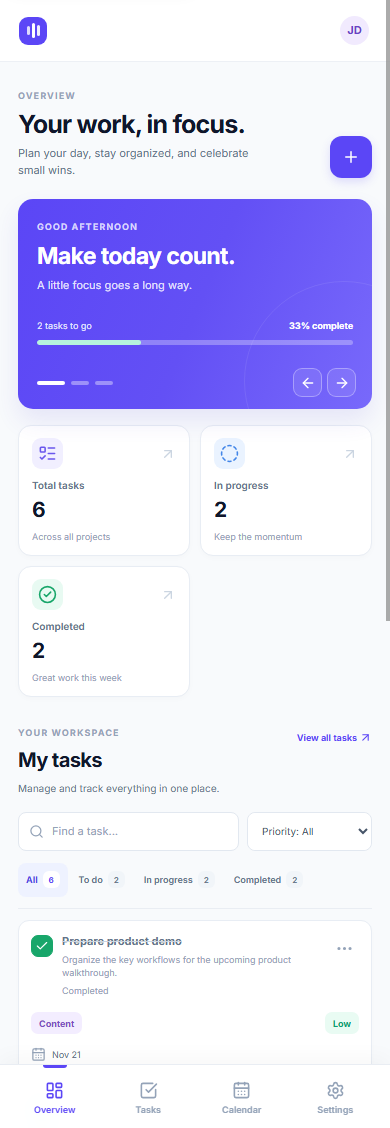
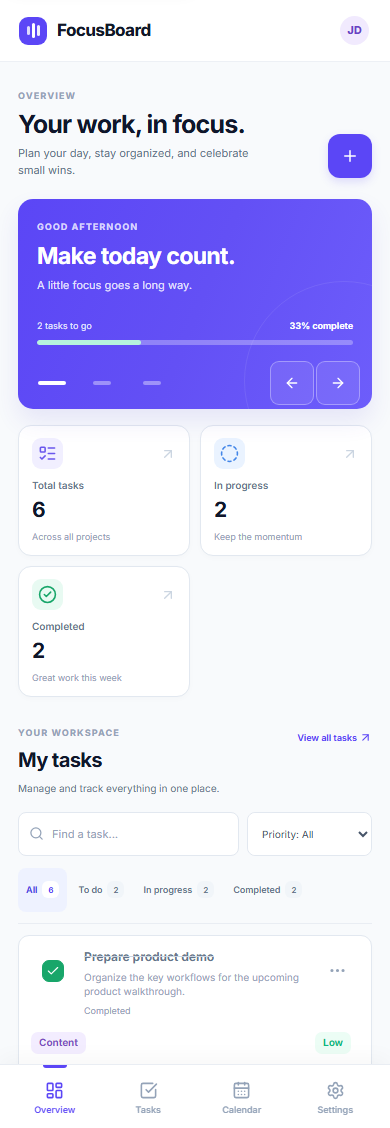
Align dashboard visuals with Figma reference

diff --git a/src/App.css b/src/App.css
@@ -50,7 +50,7 @@ button:focus-visible, input:focus-visible, textarea:focus-visible, select:focus-
 .mobile-header { display: none; }
 .mobile-navigation { display: none; }
 
-.dashboard { width: min(100%, 1230px); margin: 0 auto; padding: 40px 46px 32px; }
+.dashboard { width: min(100%, 1230px); margin: 0 auto; padding: 40px 47px 32px; }
 .hero { display: flex; align-items: center; justify-content: space-between; gap: 24px; margin-bottom: 28px; }
 .eyebrow { margin: 0 0 9px; color: #94a3b8; font-size: 10px; font-weight: 750; letter-spacing: 1.15px; }
 .hero h1 { margin: 0; color: #0f172a; font-size: clamp(26px, 2.45vw, 34px); font-weight: 700; letter-spacing: -1.25px; line-height: 1.15; }
@@ -62,23 +62,23 @@ button:focus-visible, input:focus-visible, textarea:focus-visible, select:focus-
 .secondary-button:hover { background: #f8fafc; }
 .new-task-button { min-width: 124px; }
 
-.focus-banner { position: relative; display: flex; min-height: 216px; align-items: center; justify-content: space-between; overflow: hidden; border-radius: 17px; padding: 26px 30px 44px; background: linear-gradient(112deg, #5b46f6 0%, #6350f5 51%, #7869fb 100%); color: #fff; box-shadow: 0 12px 25px #5141d51c; isolation: isolate; }
+.focus-banner { position: relative; display: flex; min-height: 152px; align-items: center; justify-content: space-between; overflow: hidden; border-radius: 17px; padding: 18px 30px 38px; background: linear-gradient(112deg, #5b46f6 0%, #6350f5 51%, #6d5dfb 100%); color: #fff; box-shadow: 0 12px 25px #5141d51c; isolation: isolate; }
 .focus-banner-content { position: relative; z-index: 1; width: min(63%, 600px); }
 .focus-meta { display: flex; align-items: center; gap: 13px; color: #ddd9ff; font-size: 9px; font-weight: 700; letter-spacing: 1.1px; }
 .focus-meta b { border: 1px solid #ffffff3d; border-radius: 20px; padding: 5px 8px; color: #fff; font-size: 9px; letter-spacing: .45px; }
-.focus-banner h2 { margin: 16px 0 7px; font-size: clamp(23px, 2.3vw, 30px); font-weight: 700; letter-spacing: -.9px; line-height: 1.2; }
+.focus-banner h2 { margin: 10px 0 6px; font-size: clamp(22px, 2.1vw, 28px); font-weight: 700; letter-spacing: -.9px; line-height: 1.2; }
 .focus-subtitle { margin: 0; color: #e4e0ff; font-size: 13px; }
 .mobile-greeting, .mobile-focus-progress { display: none; }
-.focus-preview { position: relative; z-index: 1; width: 250px; margin: 0 22px 0 24px; border: 1px solid #ffffff55; border-radius: 12px; padding: 16px 17px 15px; background: #ffffff20; box-shadow: 0 10px 30px #32279c2b; backdrop-filter: blur(7px); }
-.preview-heading { display: flex; align-items: center; justify-content: space-between; margin-bottom: 14px; color: #e6e3ff; font-size: 9px; font-weight: 700; letter-spacing: .9px; }
+.focus-preview { position: relative; z-index: 1; width: 238px; margin: 0 74px 0 24px; border: 1px solid #ffffff55; border-radius: 12px; padding: 12px 14px 11px; background: #ffffff20; box-shadow: 0 10px 30px #32279c2b; backdrop-filter: blur(7px); }
+.preview-heading { display: flex; align-items: center; justify-content: space-between; margin-bottom: 8px; color: #e6e3ff; font-size: 9px; font-weight: 700; letter-spacing: .9px; }
 .preview-heading span:first-child { display: flex; align-items: center; gap: 6px; }
 .preview-dot { width: 6px; height: 6px; border-radius: 50%; background: #9ff1d0; box-shadow: 0 0 0 3px #9ff1d033; }
 .focus-preview > strong { display: block; overflow: hidden; color: #fff; font-size: 13px; font-weight: 600; text-overflow: ellipsis; white-space: nowrap; }
-.preview-progress { display: flex; align-items: center; gap: 8px; margin-top: 15px; }
+.preview-progress { display: flex; align-items: center; gap: 8px; margin-top: 10px; }
 .preview-progress > span, .progress-track { display: block; height: 5px; flex: 1; overflow: hidden; border-radius: 10px; background: #ffffff4c; }
 .preview-progress i, .progress-track span { display: block; height: 100%; border-radius: inherit; background: #b6f3dd; }
 .preview-progress b { color: #fff; font-size: 9px; }
-.focus-banner-bottom { position: absolute; z-index: 1; right: 24px; bottom: 17px; left: 30px; display: flex; align-items: center; justify-content: space-between; }
+.focus-banner-bottom { position: absolute; z-index: 1; right: 24px; bottom: 12px; left: 30px; display: flex; align-items: center; justify-content: space-between; }
 .focus-indicators { display: flex; align-items: center; gap: 6px; }
 .focus-indicators button { width: 21px; height: 4px; border: 0; border-radius: 5px; padding: 0; background: #ffffff62; }
 .focus-indicators button.active { width: 32px; background: #fff; }
@@ -90,7 +90,7 @@ button:focus-visible, input:focus-visible, textarea:focus-visible, select:focus-
 .focus-decoration-two { top: 20px; right: 12%; display: grid; width: 34px; height: 34px; place-items: center; border-radius: 12px; background: #ffffff1e; color: #fff; transform: rotate(12deg); }
 
 .stats-grid { display: grid; grid-template-columns: repeat(3, minmax(0, 1fr)); gap: 16px; margin: 23px 0 36px; }
-.stat-card { min-height: 139px; border: 1px solid #e8edf4; border-radius: 13px; padding: 15px 18px 14px; background: #fff; box-shadow: 0 2px 6px #0f172a05; }
+.stat-card { min-height: 124px; border: 1px solid var(--line); border-radius: 13px; padding: 14px 18px 12px; background: #fff; box-shadow: 0 2px 6px #0f172a05; }
 .stat-top { display: flex; align-items: center; justify-content: space-between; }
 .stat-icon { display: inline-flex; width: 34px; height: 34px; align-items: center; justify-content: center; border-radius: 10px; }
 .stat-card.purple .stat-icon { background: #f1efff; color: #6a57ed; }
@@ -123,7 +123,7 @@ button:focus-visible, input:focus-visible, textarea:focus-visible, select:focus-
 .priority-field select { height: 100%; border: 0; border-radius: inherit; padding: 0 28px 0 10px; outline: none; background: #fff; color: #475569; font-size: 11px; }
 .task-list { padding-top: 4px; }
 .task-list-labels { display: grid; grid-template-columns: minmax(220px, 1fr) 125px 100px 110px 44px; align-items: center; gap: 12px; min-height: 40px; padding: 0 12px; color: #94a3b8; font-size: 9px; font-weight: 700; letter-spacing: .6px; text-transform: uppercase; }
-.task-row { position: relative; display: grid; grid-template-columns: minmax(220px, 1fr) 125px 100px 110px 44px; align-items: center; gap: 12px; min-height: 75px; border: 1px solid #e8edf4; border-radius: 11px; margin-bottom: 9px; padding: 11px 12px; background: #fff; box-shadow: 0 2px 5px #0f172a04; transition: border-color .16s ease, box-shadow .16s ease; }
+.task-row { position: relative; display: grid; grid-template-columns: minmax(220px, 1fr) 125px 100px 110px 44px; align-items: center; gap: 12px; min-height: 75px; border: 1px solid var(--line); border-radius: 11px; margin-bottom: 9px; padding: 11px 12px; background: #fff; box-shadow: 0 2px 5px #0f172a04; transition: border-color .16s ease, box-shadow .16s ease; }
 .task-row:hover { border-color: #d7dded; box-shadow: 0 5px 14px #0f172a0b; }
 .task-main-cell { display: flex; min-width: 0; align-items: flex-start; gap: 11px; }
 .task-status-button { position: relative; display: inline-flex; flex: 0 0 44px; width: 44px; height: 44px; align-items: center; justify-content: center; border: 0; border-radius: 8px; background: transparent; color: #fff; }
@@ -132,17 +132,17 @@ button:focus-visible, input:focus-visible, textarea:focus-visible, select:focus-
 .task-status-button.is-completed::before { border-color: #18a66a; background: #18a66a; }
 .task-status-button svg { position: relative; z-index: 1; }
 .task-copy { min-width: 0; }
-.task-copy strong { display: block; overflow: hidden; color: #1e293b; font-size: 12px; font-weight: 650; text-overflow: ellipsis; white-space: nowrap; }
-.task-copy p { overflow: hidden; margin: 5px 0 0; color: #94a3b8; font-size: 10px; line-height: 1.45; text-overflow: ellipsis; white-space: nowrap; }
+.task-copy strong { display: block; overflow: hidden; color: #1e293b; font-size: 13px; font-weight: 650; text-overflow: ellipsis; white-space: nowrap; }
+.task-copy p { overflow: hidden; margin: 5px 0 0; color: #94a3b8; font-size: 11px; line-height: 1.45; text-overflow: ellipsis; white-space: nowrap; }
 .task-completed .task-copy strong { color: #64748b; text-decoration: line-through; text-decoration-color: #cbd5e1; }
 .category-badge, .priority-badge { display: inline-flex; min-height: 23px; align-items: center; border-radius: 7px; padding: 0 8px; font-size: 9px; font-weight: 650; white-space: nowrap; }
-.category-design { background: #f0efff; color: #6253d7; }
+.category-design { background: #eef2ff; color: #6366f1; }
 .category-development { background: #eaf2ff; color: #3974c6; }
 .category-content { background: #f3edff; color: #7a4ec2; }
 .category-product, .category-marketing, .category-research, .category-quality, .category-engineering { background: #f1f5f9; color: #64748b; }
-.priority-high { background: #fff5dc; color: #d97706; }
-.priority-medium { background: #e4f8ef; color: #0c9a62; }
-.priority-low { background: #e9fbf3; color: #0f9f70; }
+.priority-high { background: #fef3c7; color: #d97706; }
+.priority-medium { background: #d1fae5; color: #059669; }
+.priority-low { background: #ecfdf5; color: #10b981; }
 .task-due-cell { display: inline-flex; align-items: center; gap: 6px; color: #64748b; font-size: 10px; white-space: nowrap; }
 .task-due-cell svg { color: #94a3b8; }
 .task-action-cell { justify-self: end; }
@@ -203,8 +203,9 @@ button:focus-visible, input:focus-visible, textarea:focus-visible, select:focus-
   .workspace { margin-left: 76px; }
   .topbar { padding: 0 30px; }
   .dashboard { padding-right: 30px; padding-left: 30px; }
-  .focus-banner { padding-right: 24px; padding-left: 24px; }
-  .focus-preview { width: 225px; margin-right: 12px; }
+  .focus-banner { min-height: 176px; padding-right: 24px; padding-left: 24px; }
+  .focus-banner-content { width: 53%; }
+  .focus-preview { width: 196px; margin-right: 48px; margin-left: 12px; }
   .task-list-labels, .task-row { grid-template-columns: minmax(190px, 1fr) 105px 82px 95px 44px; gap: 8px; }
   .task-toolbar { align-items: stretch; flex-direction: column; gap: 9px; }
   .task-filters { justify-content: flex-end; }
@@ -217,11 +218,13 @@ button:focus-visible, input:focus-visible, textarea:focus-visible, select:focus-
 }
 
 @media (max-width: 700px) {
-  html { scroll-padding-bottom: 80px; }
+  html { scroll-padding-bottom: 80px; scrollbar-width: none; }
+  html::-webkit-scrollbar { display: none; }
   .sidebar, .topbar { display: none; }
   .workspace { margin: 0; padding-bottom: calc(74px + env(safe-area-inset-bottom)); }
   .mobile-header { display: flex; height: 62px; align-items: center; justify-content: space-between; border-bottom: 1px solid #edf0f5; padding: 0 19px; background: #fff; }
   .mobile-header .brand-lockup { font-size: 17px; }
+  .mobile-header .brand-lockup > span:last-child { display: inline; }
   .mobile-header .brand-symbol { width: 28px; height: 28px; border-radius: 9px; }
   .mobile-header .avatar { width: 33px; height: 33px; }
   .mobile-navigation { position: fixed; z-index: 15; right: 0; bottom: 0; left: 0; display: grid; grid-template-columns: repeat(4, 1fr); min-height: calc(64px + env(safe-area-inset-bottom)); padding: 5px 8px env(safe-area-inset-bottom); border-top: 1px solid #e9edf3; background: #fffffffa; box-shadow: 0 -7px 20px #0f172a08; backdrop-filter: blur(12px); }
@@ -251,6 +254,7 @@ button:focus-visible, input:focus-visible, textarea:focus-visible, select:focus-
   .focus-controls { gap: 2px; }
   .focus-controls button { width: 44px; height: 44px; border-radius: 9px; }
   .focus-indicators button { position: relative; width: 44px; height: 44px; background: transparent; }
+  .focus-indicators button.active { width: 44px; background: transparent; }
   .focus-indicators button::before { position: absolute; top: 20px; left: 13px; width: 18px; height: 4px; border-radius: 5px; background: #ffffff62; content: ""; }
   .focus-indicators button.active::before { left: 8px; width: 28px; background: #fff; }
   .stats-grid { grid-template-columns: repeat(2, minmax(0, 1fr)); gap: 10px; margin: 16px 0 29px; }
@@ -279,16 +283,16 @@ button:focus-visible, input:focus-visible, textarea:focus-visible, select:focus-
   .task-list-labels { display: none; }
   .task-row { grid-template-columns: minmax(0, 1fr) auto; grid-template-areas: "main action" "category priority" "due due"; gap: 11px 8px; min-height: 0; margin-bottom: 9px; padding: 13px 12px 12px; border-radius: 11px; }
   .task-main-cell { grid-area: main; align-items: flex-start; gap: 9px; }
-  .task-copy strong { font-size: 11px; line-height: 1.4; white-space: normal; }
-  .task-copy p { display: -webkit-box; max-width: 260px; margin-top: 4px; overflow: hidden; font-size: 9px; line-height: 1.45; white-space: normal; -webkit-box-orient: vertical; -webkit-line-clamp: 2; }
+  .task-copy strong { font-size: 12px; line-height: 1.4; white-space: normal; }
+  .task-copy p { display: -webkit-box; max-width: 260px; margin-top: 4px; overflow: hidden; font-size: 10px; line-height: 1.45; white-space: normal; -webkit-box-orient: vertical; -webkit-line-clamp: 2; }
   .mobile-task-status { display: block; margin-top: 5px; color: #94a3b8; font-size: 9px; }
   .task-category-cell { grid-area: category; }
   .task-priority-cell { grid-area: priority; justify-self: start; }
-  .task-due-cell { grid-area: due; padding-top: 2px; font-size: 9px; }
+  .task-due-cell { grid-area: due; padding-top: 2px; font-size: 10px; }
   .task-action-cell { grid-area: action; align-self: start; }
   .task-menu-trigger { width: 44px; height: 44px; }
   .task-menu-items button { min-height: 44px; }
-  .category-badge, .priority-badge { min-height: 22px; font-size: 9px; }
+  .category-badge, .priority-badge { min-height: 22px; font-size: 10px; }
   .empty-tasks { padding: 36px 10px; }
   .empty-tasks p { max-width: 240px; line-height: 1.5; }
   .dashboard-footer { padding-top: 23px; font-size: 9px; }

diff --git a/index.html b/index.html
@@ -5,6 +5,9 @@
     <link rel="icon" type="image/svg+xml" href="/favicon.svg" />
     <meta name="viewport" content="width=device-width, initial-scale=1.0, viewport-fit=cover" />
     <meta name="theme-color" content="#F8FAFC" />
+    <link rel="preconnect" href="https://fonts.googleapis.com" />
+    <link rel="preconnect" href="https://fonts.gstatic.com" crossorigin />
+    <link href="https://fonts.googleapis.com/css2?family=Inter:wght@100..900&display=swap" rel="stylesheet" />
     <title>FocusBoard</title>
   </head>
   <body>

diff --git a/README.md b/README.md
@@ -29,11 +29,13 @@ The interface adapts across the requested reference widths:
 | **390px mobile** | Compact top header, two-column statistics, stacked task cards, fixed bottom navigation |
 
 The Create/Edit Task dialog also adapts to narrow viewports without horizontal scrolling.
+The desktop Focus Notes banner follows the Figma reference frame size of **1106 × 152 px**; screenshots are captured at the supplied **1440 × 1000 px** desktop and **390 × 1128 px** mobile reference sizes.
 
 ## Tech stack
 
 - React 19 and Vite 8
 - JavaScript with JSDoc
+- Inter typography with a system-font fallback
 - Tailwind CSS 4 tooling, with focused component styling in CSS
 - Lucide React icons
 - React Context and a `useReducer` task store
